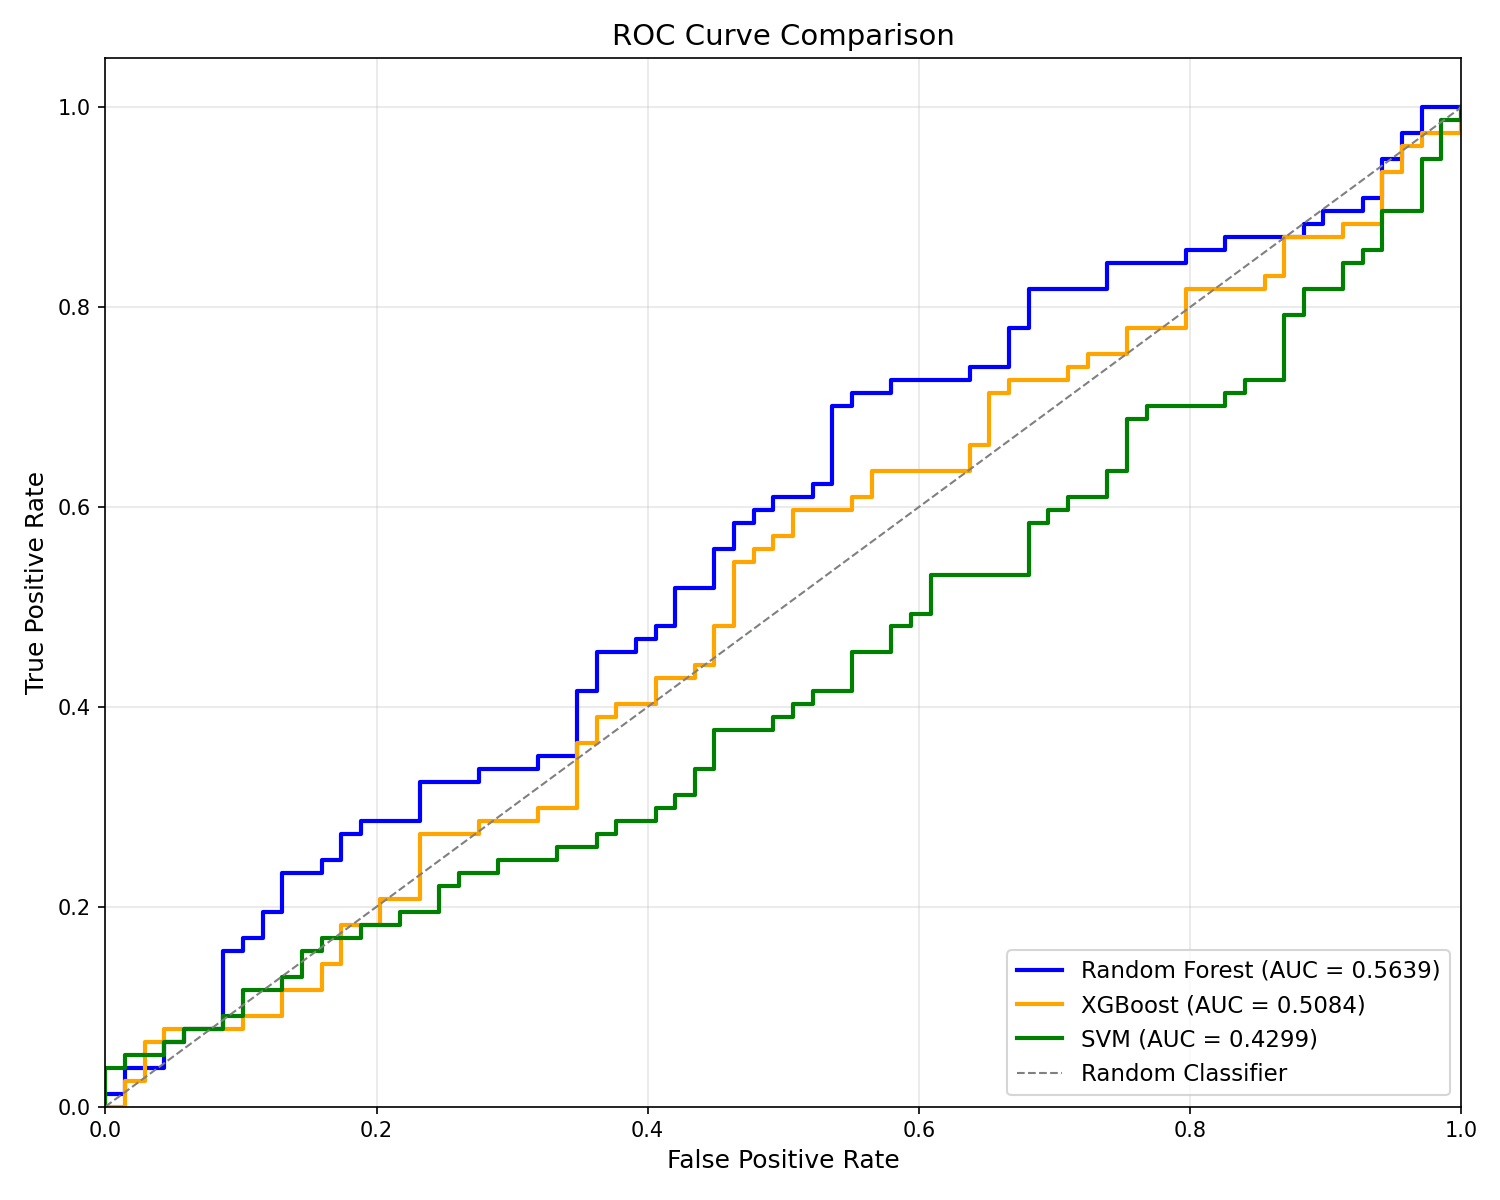
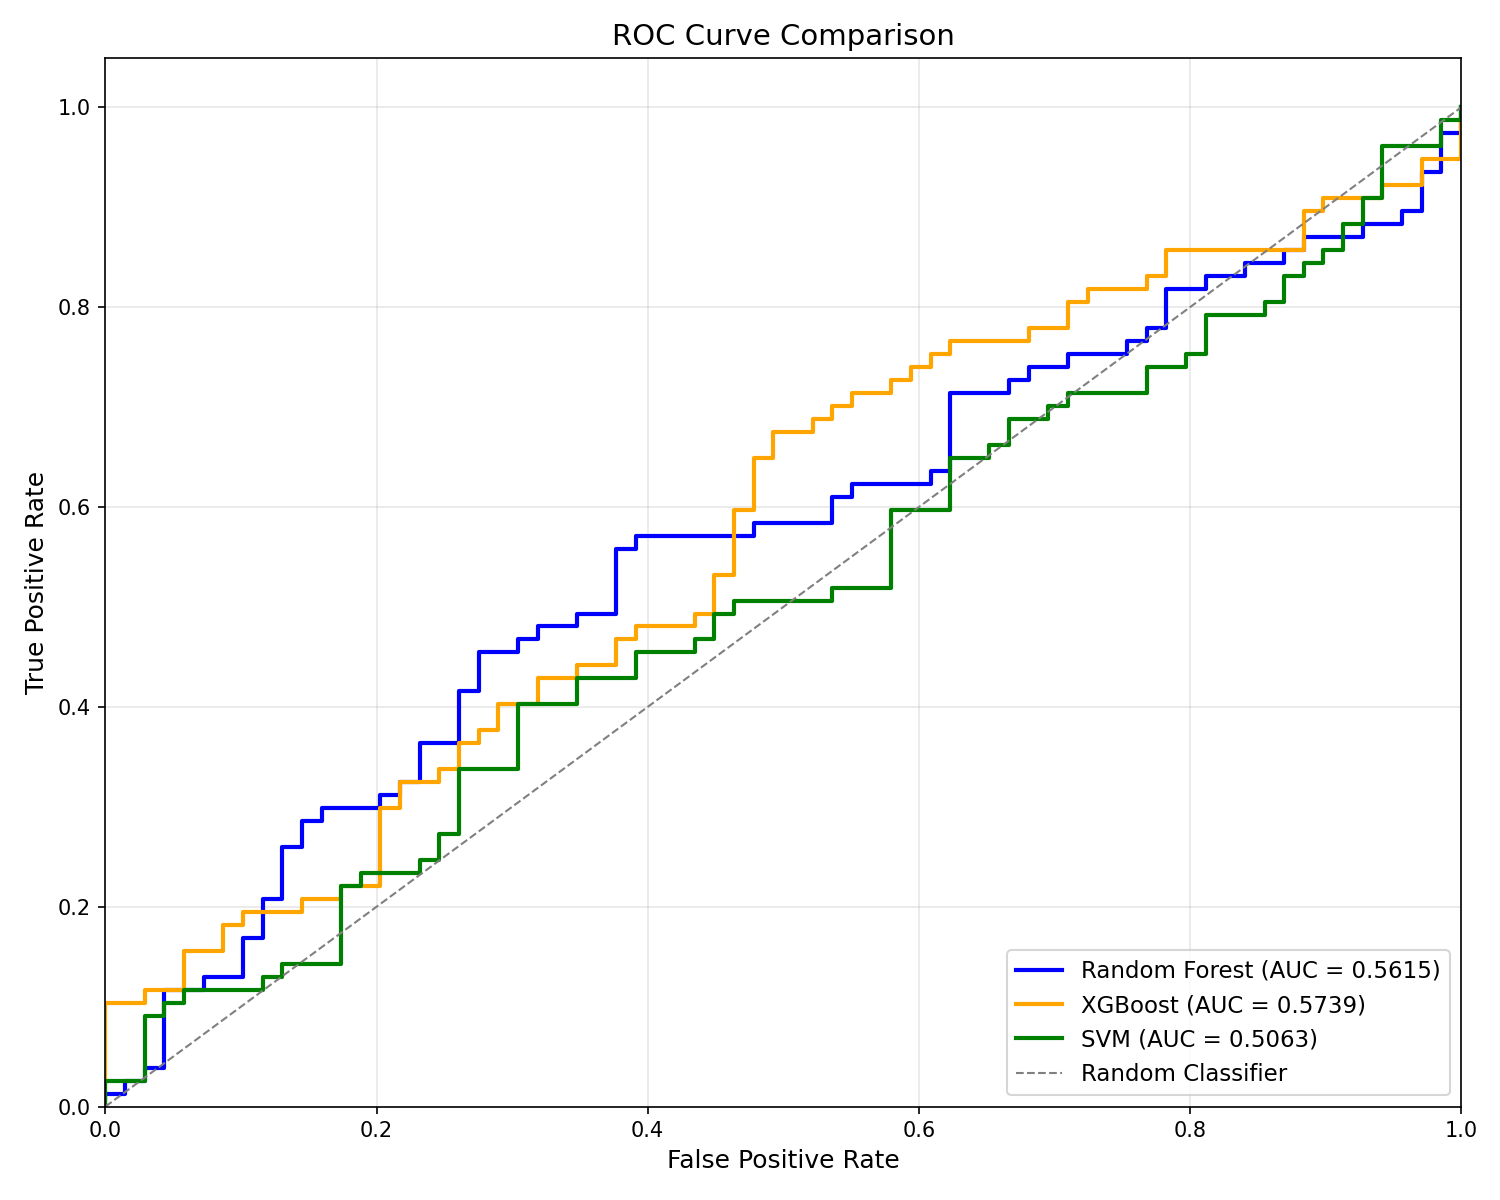
fucked

diff --git a/stock_ml_project/config.py b/stock_ml_project/config.py
@@ -61,22 +61,22 @@ PREDICTION_HORIZON = 1  # Next day prediction (binary: up/down)
 # Train/Test split ratio
 TEST_SIZE = 0.2  # 20% of data for testing
 
-# Random Forest hyperparameters - Less conservative with balanced weights
+# Random Forest hyperparameters - Optimized for 20 features
 RF_PARAMS = {
-    'n_estimators': 200,  # More trees for better generalization
-    'max_depth': 10,  # Deeper trees to capture more patterns
-    'min_samples_split': 5,  # Less restrictive
-    'min_samples_leaf': 2,  # Less restrictive
+    'n_estimators': 150,  # Balanced
+    'max_depth': 8,  # Moderate depth
+    'min_samples_split': 10,  # Moderate
+    'min_samples_leaf': 5,  # Moderate
     'class_weight': 'balanced',  # Handle class imbalance
     'random_state': 42,
     'n_jobs': -1,  # Use all available CPU cores
 }
 
-# XGBoost hyperparameters - Less conservative with balanced weights
+# XGBoost hyperparameters - Optimized for 20 features
 XGB_PARAMS = {
-    'n_estimators': 200,  # More boosting rounds
-    'max_depth': 6,  # Deeper trees to capture more patterns
-    'learning_rate': 0.1,  # Higher learning rate
+    'n_estimators': 150,  # Balanced
+    'max_depth': 5,  # Moderate depth
+    'learning_rate': 0.08,  # Moderate
     'subsample': 0.8,
     'colsample_bytree': 0.8,
     'scale_pos_weight': 1,  # Balanced classes
@@ -84,10 +84,10 @@ XGB_PARAMS = {
     'random_state': 42
 }
 
-# SVM hyperparameters - Less conservative with balanced weights
+# SVM hyperparameters - Optimized for 20 features
 SVM_PARAMS = {
     'kernel': 'rbf',
-    'C': 10.0,  # Less regularization
+    'C': 5.0,  # Moderate regularization
     'gamma': 'auto',  # Different kernel sensitivity
     'class_weight': 'balanced',  # Handle class imbalance
     'probability': True,
@@ -121,6 +121,17 @@ ENGINEERED_FEATURES = [
     'Momentum',  # Price momentum
     'Volume_Change',  # Volume change percentage
     'HL_Spread',  # High-Low spread
+    # Technical indicators
+    'RSI_14',  # Relative Strength Index
+    'MACD',  # Moving Average Convergence Divergence
+    'MACD_signal',  # MACD signal line
+    'BB_upper',  # Bollinger Band upper
+    'BB_lower',  # Bollinger Band lower
+    'BB_width',  # Bollinger Band width
+    'BB_position',  # Bollinger Band position
+    'OBV',  # On-Balance Volume
+    'OBV_change',  # OBV change
+    'ATR_14',  # Average True Range
 ]
 
 # Rolling average features (will be dynamically created)

diff --git a/stock_ml_project/src/feature_engineering.py b/stock_ml_project/src/feature_engineering.py
@@ -534,13 +534,22 @@ def engineer_all_features(df):
     df = df.copy()
 
     # Apply each feature engineering step
-    # Original 10 features (no technical indicators - they hurt performance)
+    # Original 10 features + technical indicators for better performance
     df = calculate_returns(df)
     df = add_rolling_averages(df)
     df = calculate_volatility(df)
     df = calculate_momentum(df)
     df = calculate_volume_change(df)
     df = calculate_hl_spread(df)
+    
+    # Add technical indicators (RSI, MACD, Bollinger Bands, OBV, ATR)
+    df = calculate_rsi(df)
+    df = calculate_macd(df)
+    df = calculate_bollinger_bands(df)
+    df = calculate_obv(df)
+    df = calculate_atr(df)
+    
+    # Sentiment features
     df = create_sentiment_proxy(df)
     df = smooth_sentiment(df)
     df = create_target_variable(df)
